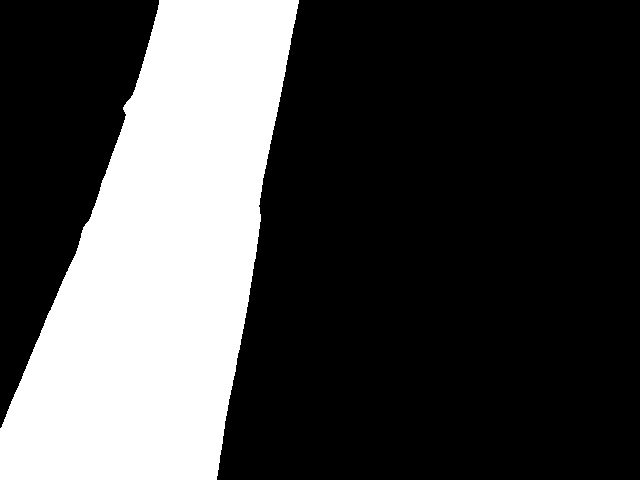
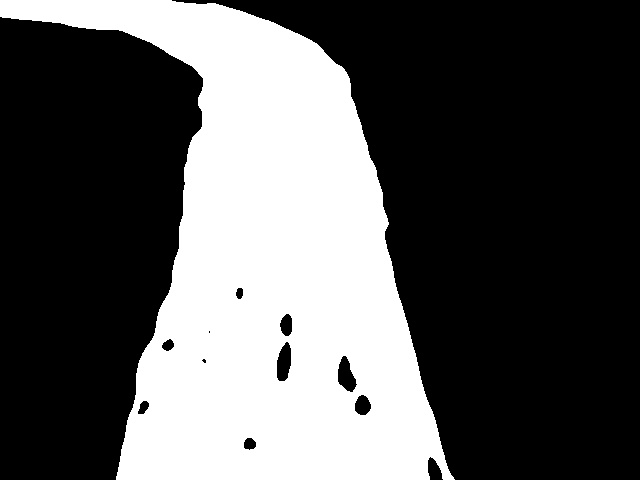
centered camera on jetbot. adjusted script to use new thresholds. not yet working.

diff --git a/programs/linefollowing/linefollowing.py b/programs/linefollowing/linefollowing.py
@@ -2,16 +2,32 @@ import cv2
 import Jetson.GPIO as GPIO
 import time
 
+## Calibration
+#motors
+#motorLeftPos =
+#motorLeftNeg = 
+#motorRightPos = 
+#motorRightNeg = 
+
+#vision
+thresholdLeft = 340 #higher X-values are on the right side of the screen, thus we need to turn left if the line is above this value
+thresholdRight = 300 #lower X-values are on the left side of the screen, thus we need to turn right if the line is below this value
+thresholdNoLineLeft = 30 #If the line is too far right, it is past this threshold to see in order to turn left
+thresholdNoLineRight = 600 #If the line is too far left, it is past this threshold to see in order to turn right
+movingAverageLength = 3
+
+
+
 GPIO.setmode(GPIO.BOARD)
 GPIO.setup([15,12,31,32], GPIO.OUT, initial=GPIO.LOW)
-
 
 cap = cv2.VideoCapture(0)
 if not(cap.isOpened()):
     print("Could not open camera")
 
 try:
-    movingaverage = [250-95] * 5
+    movingaverage = [250-95] * movingAverageLength
+    initialTime = time.time()
     while(1):
 
         ret, frame = cap.read()
@@ -25,6 +41,8 @@ try:
         # Erode to eliminate noise, Dilate to restore eroded parts of image
         mask = cv2.erode(thresh1, None, iterations=2)
         mask = cv2.dilate(mask, None, iterations=2)
+        h, w = mask.shape
+        mask = mask[int(0):int(h), 0:w]
         cv2.imwrite("c.jpg", mask)
         # Find all contours in frame
         something, contours, hierarchy = cv2.findContours(mask.copy(),1,cv2.CHAIN_APPROX_NONE)
@@ -39,46 +57,51 @@ try:
             c = max(contours, key = cv2.contourArea)
             M = cv2.moments(c)
             # Find x-axis centroid using image moments
-            cx = int(M['m10']/M['m00'])
-            #print(cx)
-            movingaverage.insert(0, cx)
-            movingaverage.pop()
+            try:
+                cx = int(M['m10']/M['m00'])
+                movingaverage.insert(0, cx)
+                movingaverage.pop()
+            except(ZeroDivisionError):
+                print("division by zero")
             av = sum(movingaverage)/len(movingaverage)
-            #print(cx)
-            if av >= 250:
+            elapsedTime = time.time() - initialTime
+            if av < thresholdNoLineRight and av >= thresholdRight:
                 #Condition 1 Motion: Right
                 GPIO.output(15, GPIO.LOW)
                 GPIO.output(12, GPIO.LOW)
                 GPIO.output(31, GPIO.HIGH)
                 GPIO.output(32, GPIO.LOW)
-                print("Turning Right!            Avg: " + str(round(av)) + "      Last: " + str(cx))
+                time.sleep(0.01)
+                GPIO.output([15,12,31,32], GPIO.LOW)
+                print(str(round(elapsedTime)) + "    Turning Right!            Avg: " + str(round(av)) + "      Last: " + str(cx))
 
-            if av < 250 and av > 95:
+            if av < thresholdRight and av > thresholdLeft:
                 #Condition 2 Motion: Straight
                 GPIO.output(15, GPIO.HIGH)
                 GPIO.output(12, GPIO.LOW)
                 GPIO.output(31, GPIO.HIGH)
                 GPIO.output(32, GPIO.LOW)
-                print("Going Straight!!          Avg: " + str(round(av)) + "      Last: " + str(cx))
+                time.sleep(0.05)
+                GPIO.output([15,12,31,32], GPIO.LOW)
+                print(str(round(elapsedTime)) + "    Going Straight!!          Avg: " + str(round(av)) + "      Last: " + str(cx))
 
-
-            if av <= 95:
+            if av > thresholdNoLineLeft and av <= thresholdLeft:
                 #Condition 3 Motion: Left
                 GPIO.output(15, GPIO.HIGH)
                 GPIO.output(12, GPIO.LOW)
                 GPIO.output(31, GPIO.LOW)
                 GPIO.output(32, GPIO.LOW)
-                print("Turning Left!             Avg: " + str(round(av)) + "      Last: " + str(cx))
-
-
-            if av >= 600:
+                time.sleep(0.01)
                 GPIO.output([15,12,31,32], GPIO.LOW)
-                print("No More Line!             Avg: " + str(round(av)))
+                print(str(round(elapsedTime)) + "    Turning Left!             Avg: " + str(round(av)) + "      Last: " + str(cx))
+
+            if av >= thresholdNoLineRight or av <= thresholdNoLineLeft:
+                GPIO.output([15,12,31,32], GPIO.LOW)
+                print(str(round(elapsedTime)) + "    No More Line!             Avg: " + str(round(av)))
 
 except(KeyboardInterrupt,SystemExit):
     print("---- Exiting ----")
     GPIO.output([15,12,31,32], GPIO.LOW)
-    #GPIO.output(11, GPIO.LOW)
     cap.release()
     cv2.destroyAllWindows()
     GPIO.cleanup()
